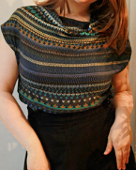
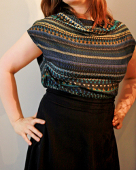
changed the order of the waterfall shirt pics

diff --git a/prettyPhoto_3.1.6/js/myconfig.js b/prettyPhoto_3.1.6/js/myconfig.js
@@ -7,7 +7,7 @@ $(document).ready(function(){
     });
     
     $(".openWaterfallImages").click(function(){
-    api_images = ['CLOTHES/vesiputous_1.jpg', 'CLOTHES/vesiputous_2.jpg'];
+    api_images = ['CLOTHES/vesiputous_2.jpg', 'CLOTHES/vesiputous_1.jpg'];
     api_titles = ['A shirt with waterfall neckline.', ''];
     api_descriptions = ['I wanted to make a shirt that was light and could be worn with a high waisted skirt.', 'I found the fabric on sale and just fell in love with it.']
     $.prettyPhoto.open(api_images,api_titles,api_descriptions);
